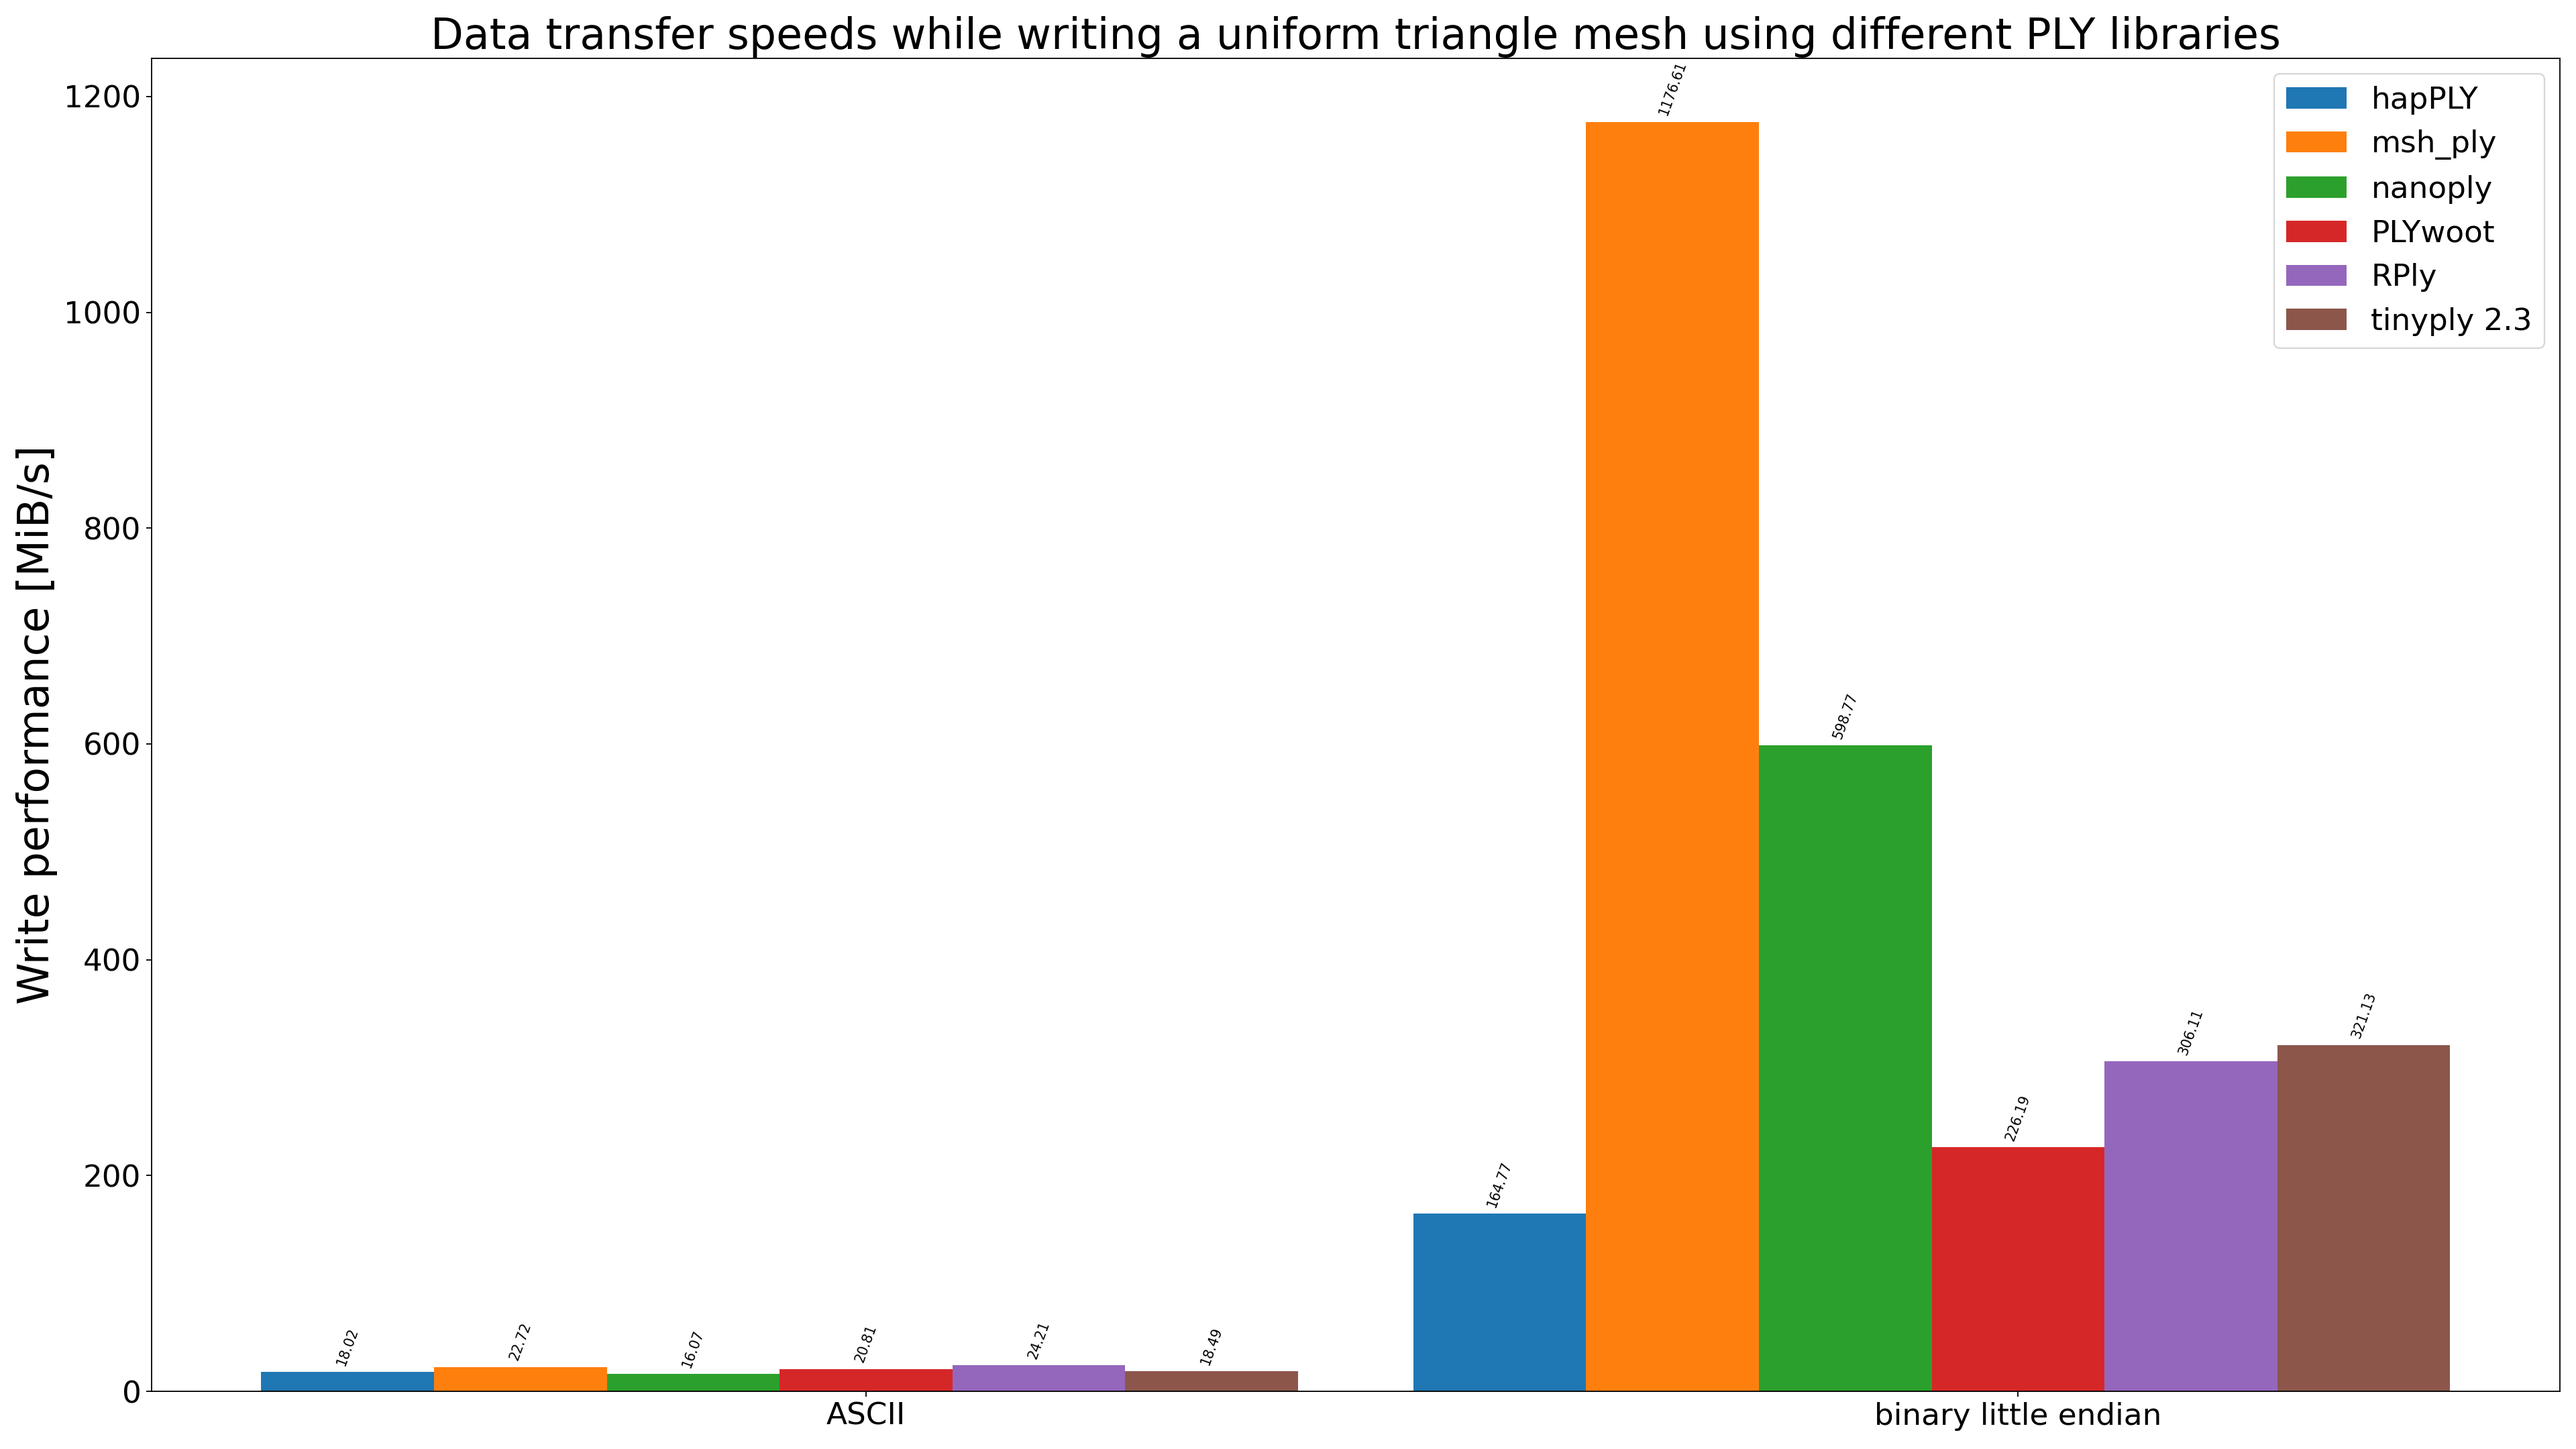
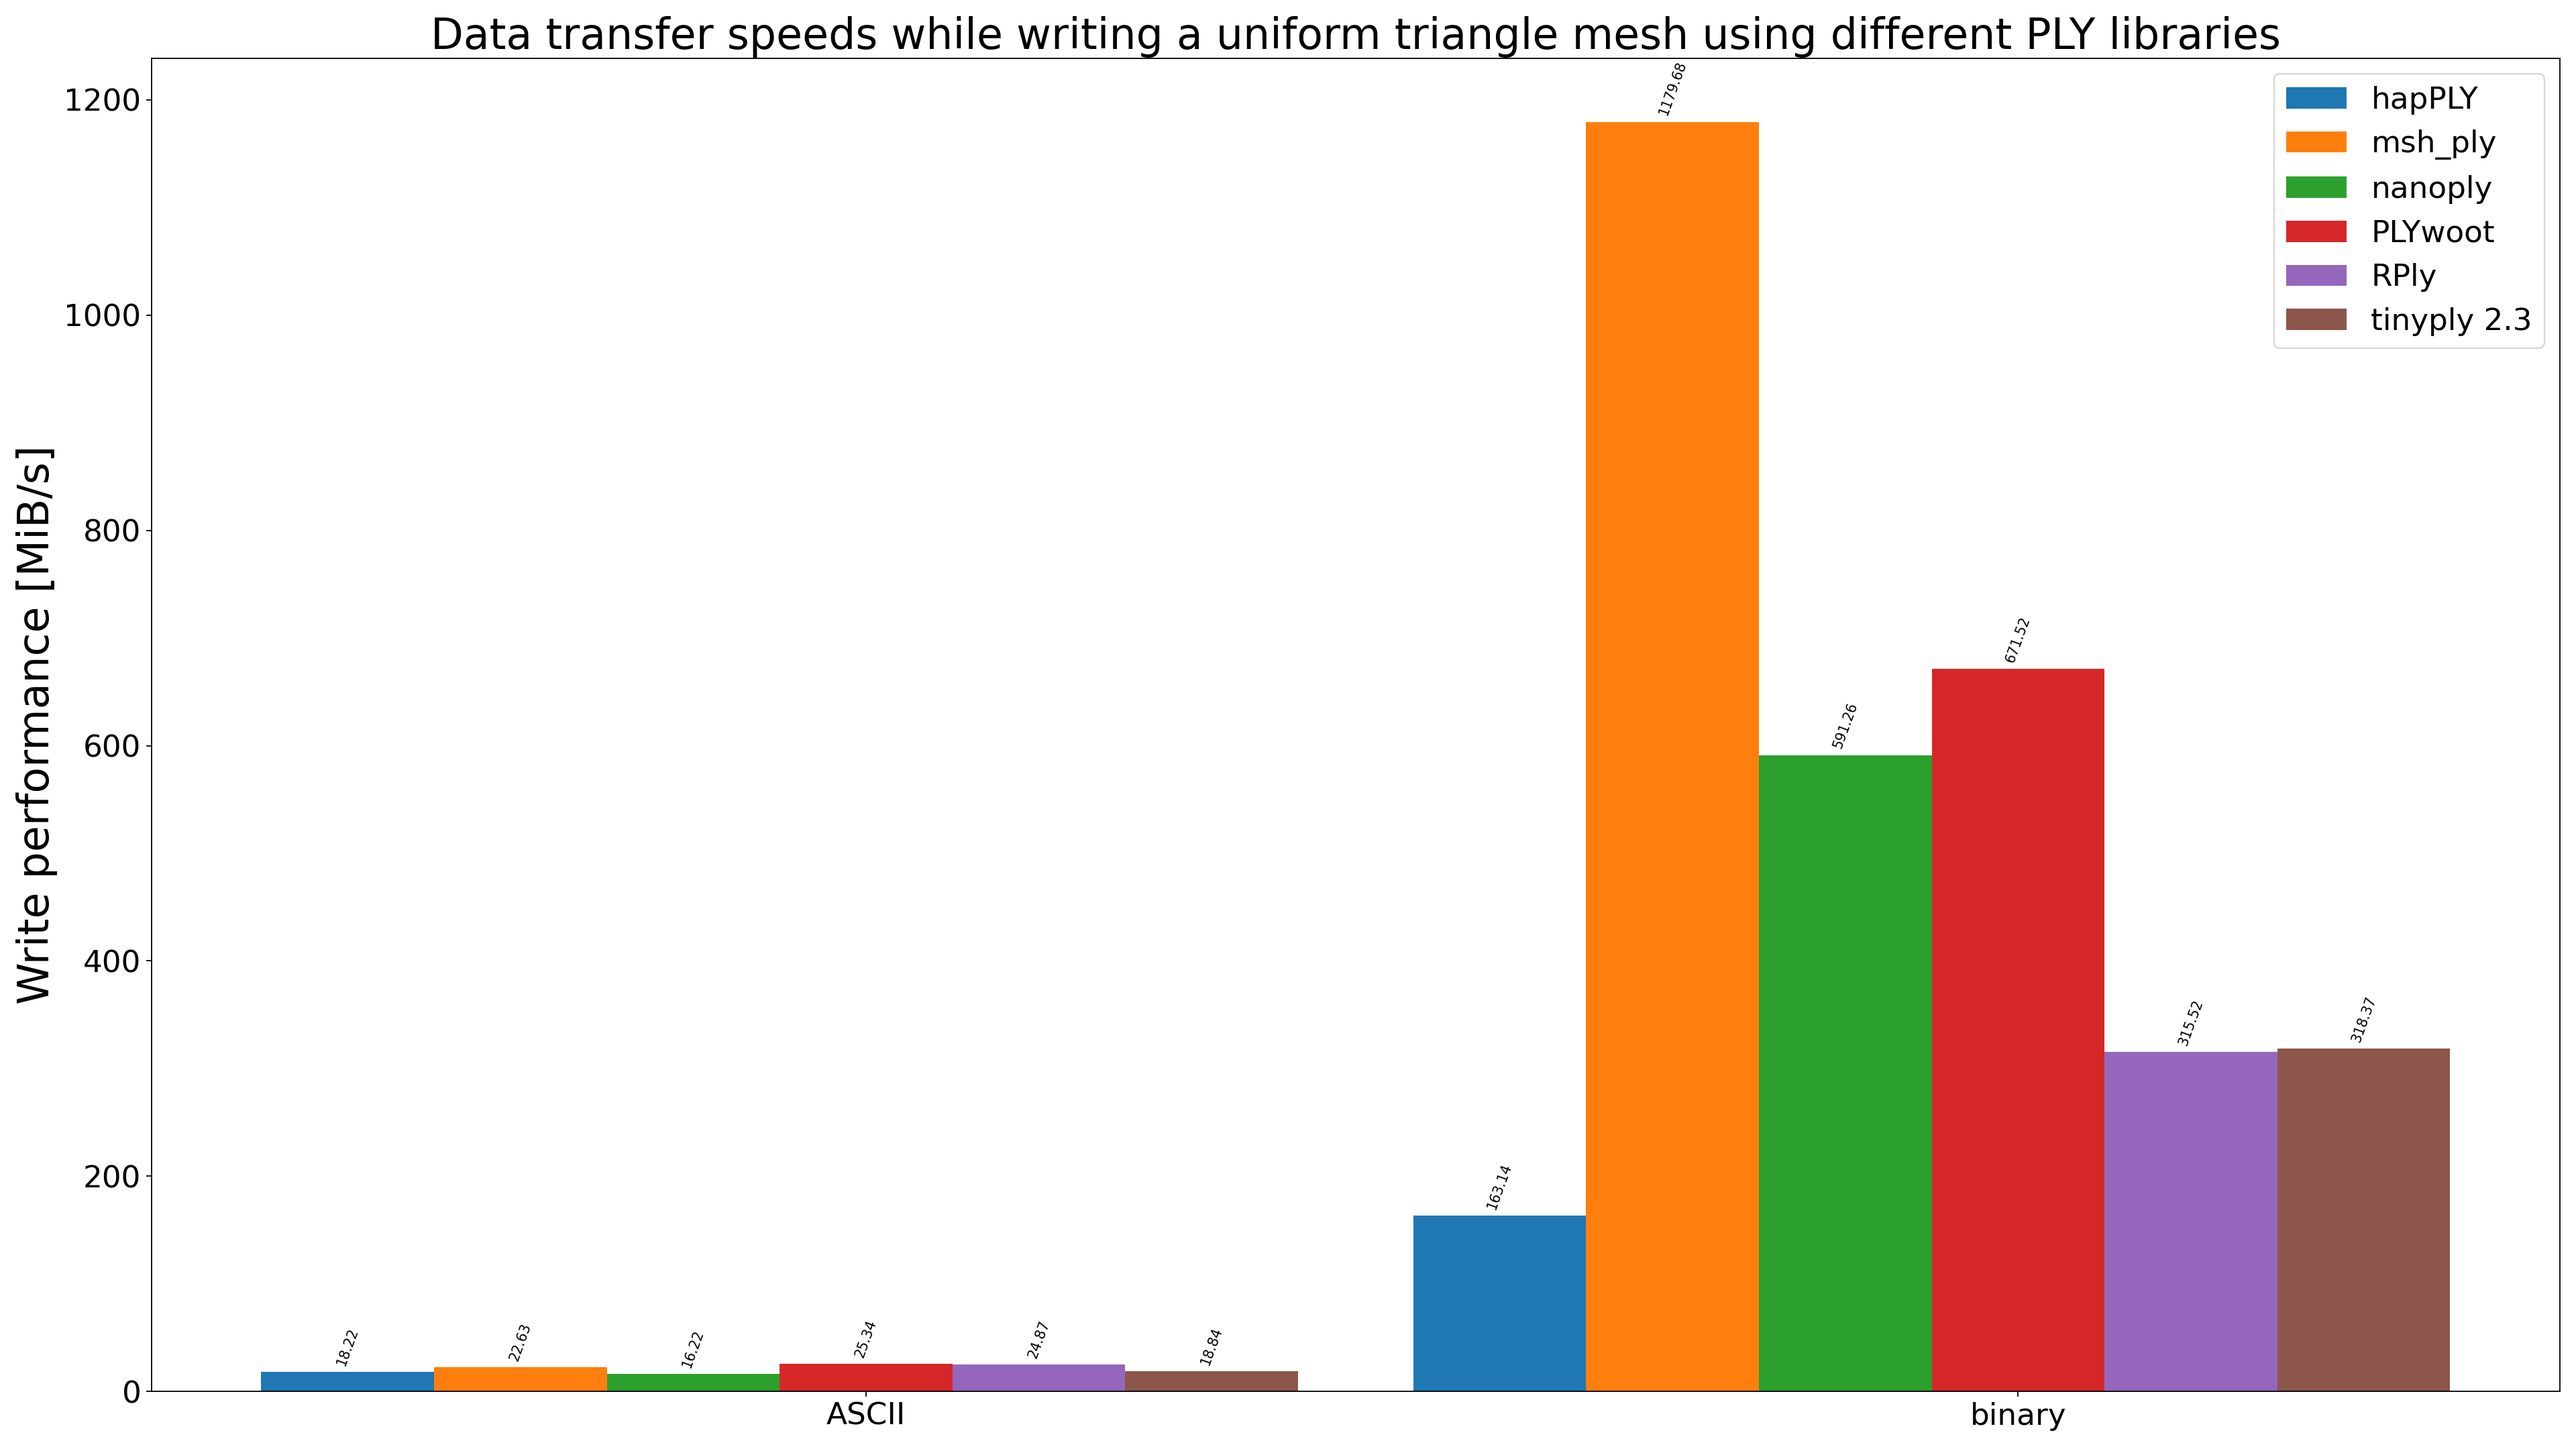
Update benchmark results after PLYwoot update

diff --git a/README.md b/README.md
@@ -47,13 +47,13 @@ The following lists the average relative read performance of each PLY library av
 | # | Library name                                                               | Overall        | ASCII          | Binary big endian | Binary little endian |
 |:-:|:--------------------------------------------------------------------------:|:--------------:|:--------------:|:-----------------:|:--------------------:|
 | 1 | [PLYwoot](https://github.com/ton/plywoot)                                  | *1.00*         | *1.00*         | *1.00*            | *1.00*               |
-| 2 | [miniply](https://github.com/vilya/miniply)                                | 1.66x slower   | 1.78x slower   | 1.76x slower      | 1.14x slower         |
-| 3 | [msh_ply](https://github.com/mhalber/msh)                                  | 3.59x slower   | 5.64x slower   | 1.81x slower      | 1.78x slower         |
-| 4 | [tinyply 2.3](https://github.com/ddiakopoulos/tinyply)                     | 6.14x slower   | N/A            | 5.01x slower      | 8.40x slower         |
-| 5 | [nanoply](https://github.com/cnr-isti-vclab/vcglib/tree/main/wrap/nanoply) | 6.49x slower   | 11.15x slower  | 2.40x slower      | 2.44x slower         |
-| 6 | [RPly](https://w3.impa.br/~diego/software/rply)                            | 8.04x slower   | 7.12x slower   | 8.00x slower      | 10.57x slower        |
-| 7 | [plylib](https://github.com/cnr-isti-vclab/vcglib/tree/main/wrap/ply)      | 9.40x slower   | 11.05x slower  | 6.47x slower      | 10.94x slower        |
-| 8 | [hapPLY](https://github.com/nmwsharp/happly)                               | 25.29x slower  | 41.54x slower  | 9.04x slower      | 15.13x slower        |
+| 2 | [miniply](https://github.com/vilya/miniply)                                | 1.68x slower   | 1.75x slower   | 1.87x slower      | 1.12x slower         |
+| 3 | [msh_ply](https://github.com/mhalber/msh)                                  | 3.94x slower   | 6.17x slower   | 2.08x slower      | 1.77x slower         |
+| 4 | [tinyply 2.3](https://github.com/ddiakopoulos/tinyply)                     | 6.27x slower   | N/A            | 5.24x slower      | 8.34x slower         |
+| 5 | [nanoply](https://github.com/cnr-isti-vclab/vcglib/tree/main/wrap/nanoply) | 6.76x slower   | 11.64x slower  | 2.50x slower      | 2.48x slower         |
+| 6 | [RPly](https://w3.impa.br/~diego/software/rply)                            | 8.25x slower   | 7.29x slower   | 8.41x slower      | 10.42x slower        |
+| 7 | [plylib](https://github.com/cnr-isti-vclab/vcglib/tree/main/wrap/ply)      | 9.68x slower   | 11.41x slower  | 6.73x slower      | 11.05x slower        |
+| 8 | [hapPLY](https://github.com/nmwsharp/happly)                               | 26.27x slower  | 43.05x slower  | 9.68x slower      | 15.40x slower        |
 
 
 The following graph plots average CPU time per model per PLY library (lower numbers are better):
@@ -68,14 +68,14 @@ The following graph plots average transfer speeds in MiB per second for parsing 
 
 The following lists the average relative write performance of each PLY library averaged per PLY format type, note that only binary little endian is tested as a binary output format in this case:
 
-| # | Library name                                                               | Overall        | ASCII          | Binary little endian |
-|:-:|:--------------------------------------------------------------------------:|:--------------:|:--------------:|:--------------------:|
-| 1 | [msh_ply](https://github.com/mhalber/msh)                                  | *1.00*         | 1.07x slower   | *1.00*               |
-| 2 | [nanoply](https://github.com/cnr-isti-vclab/vcglib/tree/main/wrap/nanoply) | 1.68x slower   | 1.51x slower   | 1.97x slower         |
-| 3 | [RPly](https://w3.impa.br/~diego/software/rply)                            | 2.35x slower   | *1.00*         | 3.84x slower         |
-| 4 | [tinyply 2.3](https://github.com/ddiakopoulos/tinyply)                     | 2.41x slower   | 1.31x slower   | 3.66x slower         |
-| 5 | [PLYwoot](https://github.com/ton/plywoot)                                  | 3.08x slower   | 1.16x slower   | 5.20x slower         |
-| 6 | [hapPLY](https://github.com/nmwsharp/happly)                               | 4.11x slower   | 1.34x slower   | 7.14x slower         |
+| # | Library name                                                               | Overall        | ASCII          | Binary         |
+|:-:|:--------------------------------------------------------------------------:|:--------------:|:--------------:|:--------------:|
+| 1 | [msh_ply](https://github.com/mhalber/msh)                                  | *1.00*         | 1.12x slower   | *1.00*         |
+| 2 | [PLYwoot](https://github.com/ton/plywoot)                                  | 1.30x slower   | *1.00*         | 1.76x slower   |
+| 3 | [nanoply](https://github.com/cnr-isti-vclab/vcglib/tree/main/wrap/nanoply) | 1.68x slower   | 1.56x slower   | 2.00x slower   |
+| 4 | [RPly](https://w3.impa.br/~diego/software/rply)                            | 2.24x slower   | 1.02x slower   | 3.74x slower   |
+| 5 | [tinyply 2.3](https://github.com/ddiakopoulos/tinyply)                     | 2.38x slower   | 1.34x slower   | 3.71x slower   |
+| 6 | [hapPLY](https://github.com/nmwsharp/happly)                               | 4.07x slower   | 1.39x slower   | 7.23x slower   |
 
 
 The following graph plots average CPU time for writing a fixed triangle mesh with 100k semi-random triangles per PLY library (lower numbers are better):
@@ -134,6 +134,7 @@ To be able to build PLYbench, the following dependencies are required:
 * [CMake](https://cmake.org/)
 * [Ninja](https://ninja-build.org/)
 * [Benchmark](https://github.com/google/benchmark)
+* [PLYwoot](https://github.com/ton/plywoot)
 
 Note that instead of Ninja a different build tool may be used (regular Make for example), but the `configure` script assumes Ninja is present on the system right now.
 
@@ -141,7 +142,7 @@ To be able to build the unit tests, the following dependency is required:
 
 * [Catch2](https://github.com/catchorg/Catch2)
 
-Note that to be able to reproduce the parse performance of PLYwoot for ASCII models, the following dependencies are required as well:
+Note that to be able to reproduce the parse performance of PLYwoot for ASCII models, it is recommend to install the following dependencies as well:
 
 * [fast_float](https://github.com/fastfloat/fast_float)
 * [fast_int](https://github.com/ton/fast_int)
